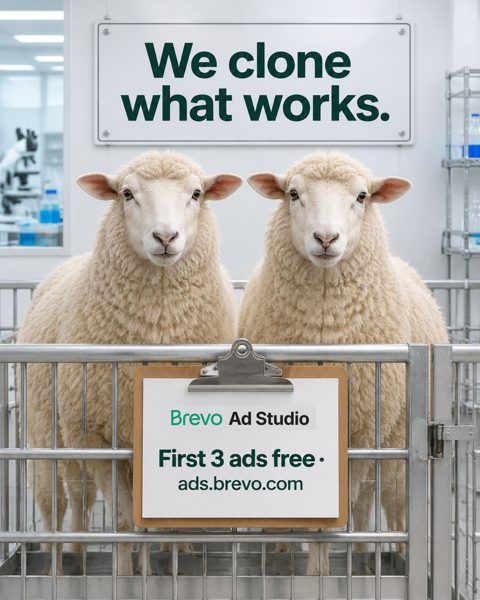
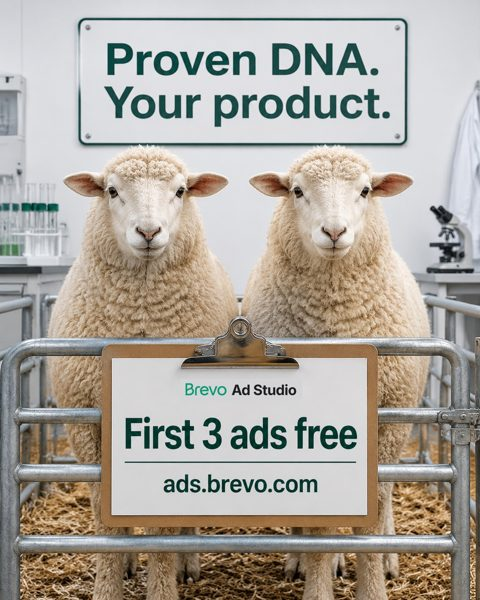
Round 2: replace H09, H10, H48 (too close to live Meta headlines)

diff --git a/round2.html b/round2.html
@@ -45,7 +45,7 @@ footer{color:var(--mute);font-size:13px;padding:34px 0 50px}
 </main>
 <div class="lb" id="lb"><button class="x" aria-label="Close">×</button><button class="nav prev" aria-label="Previous">‹</button><img alt=""><button class="nav next" aria-label="Next">›</button><div class="cap"></div></div>
 <script>
-const ADS=[{"id": "G01", "set": "G", "hook": "Agency, DIY or AI? Do the math.", "format": "Three-column comparison matrix", "brand": "Explee", "lib": "https://www.facebook.com/ads/library/?id=1784325346229388", "days": 50}, {"id": "G02", "set": "G", "hook": "Ad agencies just got a $0 rival", "format": "Aerial news shot with a live site card", "brand": "Explee", "lib": "https://www.facebook.com/ads/library/?id=1476376404327972", "days": 70}, {"id": "G03", "set": "G", "hook": "Turn me around. Wait, the AI makes the ads now?!", "format": "Upside-down torn paper collage", "brand": "Explee", "lib": "https://www.facebook.com/ads/library/?id=1004905852579612", "days": 2}, {"id": "G04", "set": "G", "hook": "Find the ads that already sell", "format": "One box vs a $5,000 stack", "brand": "Explee", "lib": "https://www.facebook.com/ads/library/?id=1079077448261437", "days": 67}, {"id": "G05", "set": "G", "hook": "If you sell online, our AI makes the ads that already sell.", "format": "Dark gradient with ring icon", "brand": "Explee", "lib": "https://www.facebook.com/ads/library/?id=1783106842817516", "days": 48}, {"id": "G06", "set": "G", "hook": "Boosting posts vs Brevo Ad Studio", "format": "Sticky notes on a wall", "brand": "Explee", "lib": "https://www.facebook.com/ads/library/?id=1888906935241734", "days": 25}, {"id": "G07", "set": "G", "hook": "No designer. No agency.", "format": "Black headline over three app screens", "brand": "Explee", "lib": "https://www.facebook.com/ads/library/?id=1037388925858773", "days": 25}, {"id": "G08", "set": "G", "hook": "How to get winning ads without any design work", "format": "Illustrated how-to card", "brand": "Explee", "lib": "https://www.facebook.com/ads/library/?id=3186214681574945", "days": 48}, {"id": "G09", "set": "G", "hook": "We're looking for store owners with no ad team", "format": "Recruitment note on a dotted pad", "brand": "Explee", "lib": "https://www.facebook.com/ads/library/?id=1462753865803063", "days": 8}, {"id": "G10", "set": "G", "hook": "See how AI makes ads that sell", "format": "Ballpoint notebook doodle", "brand": "Explee", "lib": "https://www.facebook.com/ads/library/?id=1057186540412056", "days": 24}, {"id": "G11", "set": "G", "hook": "40 boosted posts. 0 orders.", "format": "Giant condensed type poster", "brand": "Explee", "lib": "https://www.facebook.com/ads/library/?id=1668486977576528", "days": 14}, {"id": "G12", "set": "G", "hook": "Hold on. AI copies the ad that's already winning?!", "format": "Weathered street billboard", "brand": "Explee", "lib": "https://www.facebook.com/ads/library/?id=2150180252197644", "days": 17}, {"id": "G13", "set": "G", "hook": "A link is all you need.", "format": "Academic paper parody", "brand": "Explee", "lib": "https://www.facebook.com/ads/library/?id=1610341820741354", "days": 11}, {"id": "G14", "set": "G", "hook": "so why are you still making ads by hand?", "format": "Mobile social feed post", "brand": "Explee", "lib": "https://www.facebook.com/ads/library/?id=2210888943024863", "days": 14}, {"id": "G15", "set": "G", "hook": "Boosting posts and hoping / Copying ads that already sell", "format": "Highway exit meme", "brand": "Explee", "lib": "https://www.facebook.com/ads/library/?id=1357919096481776", "days": 14}, {"id": "G16", "set": "G", "hook": "I fired my agency for a link", "format": "Cardboard sign in a crowd", "brand": "Explee", "lib": "https://www.facebook.com/ads/library/?id=1052572170494766", "days": 17}, {"id": "G17", "set": "G", "hook": "I let AI copy my competitor's 300-day ad", "format": "Video watch page", "brand": "Explee", "lib": "https://www.facebook.com/ads/library/?id=2477410852742029", "days": 15}, {"id": "G18", "set": "G", "hook": "Small stores have stopped guessing which ads to run", "format": "Sponsored editorial article", "brand": "Explee", "lib": "https://www.facebook.com/ads/library/?id=1359831326068873", "days": 10}, {"id": "G19", "set": "G", "hook": "Copying ads that sell: fastest", "format": "Navigation map with two routes", "brand": "Explee", "lib": "https://www.facebook.com/ads/library/?id=1700969708435149", "days": 0}, {"id": "G20", "set": "G", "hook": "Out of ad ideas? Let Ad Studio fix it.", "format": "Agent message on a phone", "brand": "Explee", "lib": "https://www.facebook.com/ads/library/?id=1376533761070942", "days": 1}, {"id": "G21", "set": "G", "hook": "me putting my product right next to the ad that's been selling for 300 days", "format": "Three-panel restroom meme", "brand": "Explee", "lib": "https://www.facebook.com/ads/library/?id=1015940017923083", "days": 13}, {"id": "G22", "set": "G", "hook": "Skip the testing. Start with the winner.", "format": "Minimal white text card", "brand": "Explee", "lib": "https://www.facebook.com/ads/library/?id=1355026230031007", "days": 17}, {"id": "G23", "set": "G", "hook": "AI made my ads while I played tennis", "format": "POV phone on a tennis court", "brand": "Explee", "lib": "https://www.facebook.com/ads/library/?id=835005609698520", "days": 2}, {"id": "G24", "set": "G", "hook": "We need to talk about your ad spend", "format": "Empty boardroom at dusk", "brand": "Explee", "lib": "https://www.facebook.com/ads/library/?id=1745293320027217", "days": 3}, {"id": "G25", "set": "G", "hook": "Behind every one of these doors is an ad that already sells.", "format": "Long corridor of doors", "brand": "Explee", "lib": "https://www.facebook.com/ads/library/?id=1087187114170010", "days": 13}, {"id": "G26", "set": "G", "hook": "Launch your next ad in 4 minutes vs 3 weeks", "format": "Yellow cartoon runner", "brand": "Explee", "lib": "https://www.facebook.com/ads/library/?id=1489331002994353", "days": 11}, {"id": "G27", "set": "G", "hook": "Agencies take 3 weeks. Designers cost $2k. Start getting ads now.", "format": "Giant red push button", "brand": "Explee", "lib": "https://www.facebook.com/ads/library/?id=1738022153885234", "days": 9}, {"id": "G28", "set": "G", "hook": "Your AI ads agent just landed.", "format": "Helicopter over a skyline", "brand": "Explee", "lib": "https://www.facebook.com/ads/library/?id=2139338823632328", "days": 2}, {"id": "G29", "set": "G", "hook": "store owner polishes the product page one more time. still $0 sales.", "format": "Absurd caption meme", "brand": "Explee", "lib": "https://www.facebook.com/ads/library/?id=1775119817015156", "days": 5}, {"id": "G30", "set": "G", "hook": "The lazy way to get ads that sell", "format": "Icon card on green", "brand": "Explee", "lib": "https://www.facebook.com/ads/library/?id=3660268410789957", "days": 10}, {"id": "G31", "set": "G", "hook": "wait, it made 12 ads from one link?", "format": "Surprised face with floating UI", "brand": "Explee", "lib": "https://www.facebook.com/ads/library/?id=1315082027455047", "days": 6}, {"id": "G32", "set": "G", "hook": "Pouring ads into a funnel that leaks?", "format": "Clogged funnel vs golden flask", "brand": "Explee", "lib": "https://www.facebook.com/ads/library/?id=1116480267520776", "days": 6}, {"id": "G33", "set": "G", "hook": "Keep calm and paste your link", "format": "Keep Calm poster", "brand": "Explee", "lib": "https://www.facebook.com/ads/library/?id=1615341836612373", "days": 4}, {"id": "G34", "set": "G", "hook": "Trade offer: your product link for ads that already sell", "format": "Trade offer meme", "brand": "Explee", "lib": "https://www.facebook.com/ads/library/?id=1530900609051332", "days": 6}, {"id": "G35", "set": "G", "hook": "Find the ad that's selling. Make me one.", "format": "Note on the fridge", "brand": "Explee", "lib": "https://www.facebook.com/ads/library/?id=1448990897361996", "days": 6}, {"id": "G36", "set": "G", "hook": "Product is good. Ads don't sell. What am I missing?", "format": "Forum thread with a reply", "brand": "Explee", "lib": "https://www.facebook.com/ads/library/?id=1737685910702482", "days": 4}, {"id": "G37", "set": "G", "hook": "Store with no sales?", "format": "Demotivational poster", "brand": "Explee", "lib": "https://www.facebook.com/ads/library/?id=816022871506342", "days": 8}, {"id": "G38", "set": "G", "hook": "I'm going to stay here and watch Ad Studio make my ads.", "format": "Calm owner, office on fire", "brand": "Explee", "lib": "https://www.facebook.com/ads/library/?id=960648187114393", "days": 3}, {"id": "G39", "set": "G", "hook": "A test for store owners who want more orders", "format": "Colour-blindness test plate", "brand": "Explee", "lib": "https://www.facebook.com/ads/library/?id=1742886443620728", "days": 1}, {"id": "G40", "set": "G", "hook": "Find. Clone. Write. Launch.", "format": "Isometric conveyor", "brand": "Explee", "lib": "https://www.facebook.com/ads/library/?id=1038159412510049", "days": 1}, {"id": "H01", "set": "H", "hook": "LOOK UP: 3 FREE ADS", "format": "Skywriting", "parent": "G12 billboard / disbelief", "angle": "benefit"}, {"id": "H02", "set": "H", "hook": "No agency. No regrets.", "format": "A fresh tattoo", "parent": "G16 protest sign", "angle": "identity"}, {"id": "H03", "set": "H", "hook": "6 months. $0 sold.", "format": "A sad little celebration cake for a store's half-birthday with zero sa", "parent": "G11 '6 months, $0' pain", "angle": "pain"}, {"id": "H04", "set": "H", "hook": "Here lies boosted posts", "format": "A cemetery headstone for the tactic every store owner keeps paying for", "parent": "G15 / G21 enemy", "angle": "objection"}, {"id": "H05", "set": "H", "hook": "Your ads: flatlined.", "format": "A hospital patient monitor shows your ads flatlining", "parent": "G20 agent alert", "angle": "pain"}, {"id": "H06", "set": "H", "hook": "Welcome. Please buy something.", "format": "A shop's welcome doormat that says what every empty store is thinking", "parent": "G37 demotivational / pain", "angle": "pain"}, {"id": "H07", "set": "H", "hook": "AGENCY $4,000 / AD STUDIO $0", "format": "A roadside gas-station price pylon", "parent": "G01 / G04 price anchor", "angle": "offer"}, {"id": "H08", "set": "H", "hook": "In case of $0 sales", "format": "An emergency break-glass box for stores with no sales", "parent": "G11 pain to fix", "angle": "pain"}, {"id": "H09", "set": "H", "hook": "We clone what works.", "format": "Two identical sheep in a clinical lab", "parent": "G03 / clone mechanism", "angle": "benefit"}, {"id": "H10", "set": "H", "hook": "Copy what already sells.", "format": "An office copier", "parent": "G13 / copy what sells", "angle": "benefit"}, {"id": "H11", "set": "H", "hook": "The legal heist.", "format": "A heist blueprint for stealing your competitor's best ad", "parent": "G25 corridor doors / objection", "angle": "objection"}, {"id": "H12", "set": "H", "hook": "Stop flailing. Use proof.", "format": "A flailing inflatable tube man outside a car lot", "parent": "G29 absurd meme", "angle": "pain"}, {"id": "H13", "set": "H", "hook": "Guessing: sent off.", "format": "A referee sends boosted posts off the pitch", "parent": "G15 enemy", "angle": "objection"}, {"id": "H14", "set": "H", "hook": "One small link.", "format": "A moon landing for store owners", "parent": "G28 just landed", "angle": "benefit"}, {"id": "H15", "set": "H", "hook": "Winning ads. Just add link.", "format": "A breakfast cereal box where the cereal is ads", "parent": "G33 keep calm / product parody", "angle": "benefit"}, {"id": "H16", "set": "H", "hook": "Proven since the Stone Age.", "format": "Cave painting", "parent": "G13 academic proof", "angle": "proof"}, {"id": "H17", "set": "H", "hook": "Insufficient funds for an agency.", "format": "An ATM screen that knows your budget", "parent": "G04 price anchor", "angle": "objection"}, {"id": "H18", "set": "H", "hook": "Paste link. Go surf.", "format": "Aerial beach", "parent": "G23 tennis POV / while you play", "angle": "benefit"}, {"id": "H19", "set": "H", "hook": "Stop guessing your ads.", "format": "Red lipstick on a bathroom mirror", "parent": "G35 fridge note", "angle": "identity"}, {"id": "H20", "set": "H", "hook": "Live. Laugh. Copy winners.", "format": "A farmhouse home-decor sign", "parent": "G33 keep calm", "angle": "identity"}, {"id": "H21", "set": "H", "hook": "Agencies hate this link.", "format": "Spray stencil on a closed shop's rolling shutter at night", "parent": "G15 enemy", "angle": "objection"}, {"id": "H22", "set": "H", "hook": "Crime scene: your ad budget", "format": "Crime scene", "parent": "G38 this is fine", "angle": "pain"}, {"id": "H23", "set": "H", "hook": "Good time? Paste your link.", "format": "Bathroom stall graffiti that is actually good advice", "parent": "G21 urinal meme", "angle": "identity"}, {"id": "H24", "set": "H", "hook": "STOP BOOSTING POSTS STOP", "format": "An old telegram with an urgent instruction", "parent": "G02 breaking news", "angle": "objection"}, {"id": "H25", "set": "H", "hook": "Take 1. No retakes.", "format": "A film clapperboard", "parent": "G17 video page", "angle": "benefit"}, {"id": "H26", "set": "H", "hook": "Grandma's winning ad recipe", "format": "Grandma's recipe card", "parent": "G35 handwritten note", "angle": "proof"}, {"id": "H27", "set": "H", "hook": "Ad. No assembly required.", "format": "A flat-pack instruction booklet for an ad that needs no assembly", "parent": "G08 how-to", "angle": "objection"}, {"id": "H28", "set": "H", "hook": "I ate the agency budget.", "format": "Dog shaming", "parent": "G29 absurd meme", "angle": "pain"}, {"id": "H29", "set": "H", "hook": "Copying allowed here.", "format": "A graded exam where copying earns an A+", "parent": "G39 test for store owners", "angle": "objection"}, {"id": "H30", "set": "H", "hook": "Your ad launches in 4:00", "format": "A launch-pad countdown clock for your next ad", "parent": "G28 launch", "angle": "benefit"}, {"id": "H31", "set": "H", "hook": "Ads inside ads inside ads.", "format": "Russian nesting dolls", "parent": "G40 assembly line", "angle": "benefit"}, {"id": "H32", "set": "H", "hook": "Their ad. Your piece.", "format": "A jigsaw of a proven ad", "parent": "G04 two-box stack", "angle": "benefit"}, {"id": "H33", "set": "H", "hook": "They were the guinea pig.", "format": "Let someone else be the guinea pig", "parent": "G13 academic / proof", "angle": "proof"}, {"id": "H34", "set": "H", "hook": "Still running: day 412", "format": "A marathon runner whose race bib reads like a long-running ad", "parent": "G19 map / running", "angle": "proof"}, {"id": "H35", "set": "H", "hook": "Caution: ads that sell.", "format": "A yellow wet-floor sign that warns about something good", "parent": "G22 minimal", "angle": "benefit"}, {"id": "H36", "set": "H", "hook": "In proven ads we trust.", "format": "A novelty banknote whose denomination is your free ads", "parent": "G24 we need to talk", "angle": "offer"}, {"id": "H37", "set": "H", "hook": "Ads directed by one link.", "format": "Movie end credits for your new ad", "parent": "G18 advertorial", "angle": "benefit"}, {"id": "H38", "set": "H", "hook": "NO AGNCY", "format": "A delivery van with a vanity license plate", "parent": "G16 identity", "angle": "identity"}, {"id": "H39", "set": "H", "hook": "PROVEN WINS", "format": "Letter tiles on a word-game board spell the move", "parent": "G39 test for store owners", "angle": "benefit"}, {"id": "H40", "set": "H", "hook": "300 days live. Yours next.", "format": "Guerrilla projection on a skyscraper at night", "parent": "G02 broadcast / projection", "angle": "benefit"}, {"id": "H41", "set": "H", "hook": "Same ad. New passport.", "format": "A passport issued to an ad", "parent": "G03 / clone", "angle": "benefit"}, {"id": "H42", "set": "H", "hook": "Their best ad: $0", "format": "An auction house sells their best ad for nothing", "parent": "G04 price anchor", "angle": "offer"}, {"id": "H43", "set": "H", "hook": "One link starts it all.", "format": "One domino starts the whole chain", "parent": "G40 conveyor", "angle": "benefit"}, {"id": "H44", "set": "H", "hook": "Something borrowed: their best ad.", "format": "Wedding chalkboard", "parent": "G37 humor", "angle": "identity"}, {"id": "H45", "set": "H", "hook": "Hear ye: agencies are over.", "format": "A town crier's proclamation nailed to a door", "parent": "G02 breaking news", "angle": "news"}, {"id": "H46", "set": "H", "hook": "Rare specimen: still selling.", "format": "A natural-history specimen box of rare ads", "parent": "G13 academic", "angle": "proof"}, {"id": "H47", "set": "H", "hook": "Greatest hits: 300-day ads", "format": "A mixtape of the ads that kept selling", "parent": "G10 doodle", "angle": "proof"}, {"id": "H48", "set": "H", "hook": "Your new ad team", "format": "A HELLO MY NAME IS badge stuck on a laptop lid", "parent": "G35 note", "angle": "identity"}, {"id": "H49", "set": "H", "hook": "Paint-by-link ad kit", "format": "A paint-by-numbers kit", "parent": "G08 illustrated", "angle": "benefit"}, {"id": "H50", "set": "H", "hook": "Wa \u00b7 Winning Ad", "format": "A periodic table tile for the element every store needs", "parent": "G13 academic", "angle": "identity"}, {"id": "H51", "set": "H", "hook": "It's an ad!", "format": "A newborn hospital bassinet", "parent": "G20 agent", "angle": "benefit"}, {"id": "H52", "set": "H", "hook": "Coming soon: your best ad", "format": "A construction hoarding announcing what is being built", "parent": "G26 speed", "angle": "benefit"}, {"id": "H53", "set": "H", "hook": "Ctrl+C what sells.", "format": "A keyboard where only two shortcuts matter", "parent": "G03 clone", "angle": "benefit"}, {"id": "H54", "set": "H", "hook": "Your ads are boring.", "format": "An old TV test card interrupts your feed", "parent": "G02 broadcast", "angle": "pain"}, {"id": "H55", "set": "H", "hook": "Missing: your sales.", "format": "A milk carton missing-person notice", "parent": "G11 pain", "angle": "pain"}, {"id": "H56", "set": "H", "hook": "Authorized winners only.", "format": "A metal restricted-area sign on a fence", "parent": "G09 recruitment", "angle": "identity"}, {"id": "H57", "set": "H", "hook": "First-class ads: 3 free", "format": "A giant postage stamp for first-class ads", "parent": "G04 price anchor", "angle": "offer"}, {"id": "H58", "set": "H", "hook": "Agency: terminated.", "format": "A contract stamped terminated", "parent": "G24 / enemy", "angle": "objection"}, {"id": "H59", "set": "H", "hook": "Made from 100% proven ads", "format": "A garment care label for an ad", "parent": "G40 / proof", "angle": "proof"}, {"id": "H60", "set": "H", "hook": "Jump in. 3 free ads.", "format": "A skydiver's canopy carries the offer across the sky", "parent": "G28 just landed", "angle": "offer"}];
+const ADS=[{"id": "G01", "set": "G", "hook": "Agency, DIY or AI? Do the math.", "format": "Three-column comparison matrix", "brand": "Explee", "lib": "https://www.facebook.com/ads/library/?id=1784325346229388", "days": 50}, {"id": "G02", "set": "G", "hook": "Ad agencies just got a $0 rival", "format": "Aerial news shot with a live site card", "brand": "Explee", "lib": "https://www.facebook.com/ads/library/?id=1476376404327972", "days": 70}, {"id": "G03", "set": "G", "hook": "Turn me around. Wait, the AI makes the ads now?!", "format": "Upside-down torn paper collage", "brand": "Explee", "lib": "https://www.facebook.com/ads/library/?id=1004905852579612", "days": 2}, {"id": "G04", "set": "G", "hook": "Find the ads that already sell", "format": "One box vs a $5,000 stack", "brand": "Explee", "lib": "https://www.facebook.com/ads/library/?id=1079077448261437", "days": 67}, {"id": "G05", "set": "G", "hook": "If you sell online, our AI makes the ads that already sell.", "format": "Dark gradient with ring icon", "brand": "Explee", "lib": "https://www.facebook.com/ads/library/?id=1783106842817516", "days": 48}, {"id": "G06", "set": "G", "hook": "Boosting posts vs Brevo Ad Studio", "format": "Sticky notes on a wall", "brand": "Explee", "lib": "https://www.facebook.com/ads/library/?id=1888906935241734", "days": 25}, {"id": "G07", "set": "G", "hook": "No designer. No agency.", "format": "Black headline over three app screens", "brand": "Explee", "lib": "https://www.facebook.com/ads/library/?id=1037388925858773", "days": 25}, {"id": "G08", "set": "G", "hook": "How to get winning ads without any design work", "format": "Illustrated how-to card", "brand": "Explee", "lib": "https://www.facebook.com/ads/library/?id=3186214681574945", "days": 48}, {"id": "G09", "set": "G", "hook": "We're looking for store owners with no ad team", "format": "Recruitment note on a dotted pad", "brand": "Explee", "lib": "https://www.facebook.com/ads/library/?id=1462753865803063", "days": 8}, {"id": "G10", "set": "G", "hook": "See how AI makes ads that sell", "format": "Ballpoint notebook doodle", "brand": "Explee", "lib": "https://www.facebook.com/ads/library/?id=1057186540412056", "days": 24}, {"id": "G11", "set": "G", "hook": "40 boosted posts. 0 orders.", "format": "Giant condensed type poster", "brand": "Explee", "lib": "https://www.facebook.com/ads/library/?id=1668486977576528", "days": 14}, {"id": "G12", "set": "G", "hook": "Hold on. AI copies the ad that's already winning?!", "format": "Weathered street billboard", "brand": "Explee", "lib": "https://www.facebook.com/ads/library/?id=2150180252197644", "days": 17}, {"id": "G13", "set": "G", "hook": "A link is all you need.", "format": "Academic paper parody", "brand": "Explee", "lib": "https://www.facebook.com/ads/library/?id=1610341820741354", "days": 11}, {"id": "G14", "set": "G", "hook": "so why are you still making ads by hand?", "format": "Mobile social feed post", "brand": "Explee", "lib": "https://www.facebook.com/ads/library/?id=2210888943024863", "days": 14}, {"id": "G15", "set": "G", "hook": "Boosting posts and hoping / Copying ads that already sell", "format": "Highway exit meme", "brand": "Explee", "lib": "https://www.facebook.com/ads/library/?id=1357919096481776", "days": 14}, {"id": "G16", "set": "G", "hook": "I fired my agency for a link", "format": "Cardboard sign in a crowd", "brand": "Explee", "lib": "https://www.facebook.com/ads/library/?id=1052572170494766", "days": 17}, {"id": "G17", "set": "G", "hook": "I let AI copy my competitor's 300-day ad", "format": "Video watch page", "brand": "Explee", "lib": "https://www.facebook.com/ads/library/?id=2477410852742029", "days": 15}, {"id": "G18", "set": "G", "hook": "Small stores have stopped guessing which ads to run", "format": "Sponsored editorial article", "brand": "Explee", "lib": "https://www.facebook.com/ads/library/?id=1359831326068873", "days": 10}, {"id": "G19", "set": "G", "hook": "Copying ads that sell: fastest", "format": "Navigation map with two routes", "brand": "Explee", "lib": "https://www.facebook.com/ads/library/?id=1700969708435149", "days": 0}, {"id": "G20", "set": "G", "hook": "Out of ad ideas? Let Ad Studio fix it.", "format": "Agent message on a phone", "brand": "Explee", "lib": "https://www.facebook.com/ads/library/?id=1376533761070942", "days": 1}, {"id": "G21", "set": "G", "hook": "me putting my product right next to the ad that's been selling for 300 days", "format": "Three-panel restroom meme", "brand": "Explee", "lib": "https://www.facebook.com/ads/library/?id=1015940017923083", "days": 13}, {"id": "G22", "set": "G", "hook": "Skip the testing. Start with the winner.", "format": "Minimal white text card", "brand": "Explee", "lib": "https://www.facebook.com/ads/library/?id=1355026230031007", "days": 17}, {"id": "G23", "set": "G", "hook": "AI made my ads while I played tennis", "format": "POV phone on a tennis court", "brand": "Explee", "lib": "https://www.facebook.com/ads/library/?id=835005609698520", "days": 2}, {"id": "G24", "set": "G", "hook": "We need to talk about your ad spend", "format": "Empty boardroom at dusk", "brand": "Explee", "lib": "https://www.facebook.com/ads/library/?id=1745293320027217", "days": 3}, {"id": "G25", "set": "G", "hook": "Behind every one of these doors is an ad that already sells.", "format": "Long corridor of doors", "brand": "Explee", "lib": "https://www.facebook.com/ads/library/?id=1087187114170010", "days": 13}, {"id": "G26", "set": "G", "hook": "Launch your next ad in 4 minutes vs 3 weeks", "format": "Yellow cartoon runner", "brand": "Explee", "lib": "https://www.facebook.com/ads/library/?id=1489331002994353", "days": 11}, {"id": "G27", "set": "G", "hook": "Agencies take 3 weeks. Designers cost $2k. Start getting ads now.", "format": "Giant red push button", "brand": "Explee", "lib": "https://www.facebook.com/ads/library/?id=1738022153885234", "days": 9}, {"id": "G28", "set": "G", "hook": "Your AI ads agent just landed.", "format": "Helicopter over a skyline", "brand": "Explee", "lib": "https://www.facebook.com/ads/library/?id=2139338823632328", "days": 2}, {"id": "G29", "set": "G", "hook": "store owner polishes the product page one more time. still $0 sales.", "format": "Absurd caption meme", "brand": "Explee", "lib": "https://www.facebook.com/ads/library/?id=1775119817015156", "days": 5}, {"id": "G30", "set": "G", "hook": "The lazy way to get ads that sell", "format": "Icon card on green", "brand": "Explee", "lib": "https://www.facebook.com/ads/library/?id=3660268410789957", "days": 10}, {"id": "G31", "set": "G", "hook": "wait, it made 12 ads from one link?", "format": "Surprised face with floating UI", "brand": "Explee", "lib": "https://www.facebook.com/ads/library/?id=1315082027455047", "days": 6}, {"id": "G32", "set": "G", "hook": "Pouring ads into a funnel that leaks?", "format": "Clogged funnel vs golden flask", "brand": "Explee", "lib": "https://www.facebook.com/ads/library/?id=1116480267520776", "days": 6}, {"id": "G33", "set": "G", "hook": "Keep calm and paste your link", "format": "Keep Calm poster", "brand": "Explee", "lib": "https://www.facebook.com/ads/library/?id=1615341836612373", "days": 4}, {"id": "G34", "set": "G", "hook": "Trade offer: your product link for ads that already sell", "format": "Trade offer meme", "brand": "Explee", "lib": "https://www.facebook.com/ads/library/?id=1530900609051332", "days": 6}, {"id": "G35", "set": "G", "hook": "Find the ad that's selling. Make me one.", "format": "Note on the fridge", "brand": "Explee", "lib": "https://www.facebook.com/ads/library/?id=1448990897361996", "days": 6}, {"id": "G36", "set": "G", "hook": "Product is good. Ads don't sell. What am I missing?", "format": "Forum thread with a reply", "brand": "Explee", "lib": "https://www.facebook.com/ads/library/?id=1737685910702482", "days": 4}, {"id": "G37", "set": "G", "hook": "Store with no sales?", "format": "Demotivational poster", "brand": "Explee", "lib": "https://www.facebook.com/ads/library/?id=816022871506342", "days": 8}, {"id": "G38", "set": "G", "hook": "I'm going to stay here and watch Ad Studio make my ads.", "format": "Calm owner, office on fire", "brand": "Explee", "lib": "https://www.facebook.com/ads/library/?id=960648187114393", "days": 3}, {"id": "G39", "set": "G", "hook": "A test for store owners who want more orders", "format": "Colour-blindness test plate", "brand": "Explee", "lib": "https://www.facebook.com/ads/library/?id=1742886443620728", "days": 1}, {"id": "G40", "set": "G", "hook": "Find. Clone. Write. Launch.", "format": "Isometric conveyor", "brand": "Explee", "lib": "https://www.facebook.com/ads/library/?id=1038159412510049", "days": 1}, {"id": "H01", "set": "H", "hook": "LOOK UP: 3 FREE ADS", "format": "Skywriting", "parent": "G12 billboard / disbelief", "angle": "benefit"}, {"id": "H02", "set": "H", "hook": "No agency. No regrets.", "format": "A fresh tattoo", "parent": "G16 protest sign", "angle": "identity"}, {"id": "H03", "set": "H", "hook": "6 months. $0 sold.", "format": "A sad little celebration cake for a store's half-birthday with zero sa", "parent": "G11 '6 months, $0' pain", "angle": "pain"}, {"id": "H04", "set": "H", "hook": "Here lies boosted posts", "format": "A cemetery headstone for the tactic every store owner keeps paying for", "parent": "G15 / G21 enemy", "angle": "objection"}, {"id": "H05", "set": "H", "hook": "Your ads: flatlined.", "format": "A hospital patient monitor shows your ads flatlining", "parent": "G20 agent alert", "angle": "pain"}, {"id": "H06", "set": "H", "hook": "Welcome. Please buy something.", "format": "A shop's welcome doormat that says what every empty store is thinking", "parent": "G37 demotivational / pain", "angle": "pain"}, {"id": "H07", "set": "H", "hook": "AGENCY $4,000 / AD STUDIO $0", "format": "A roadside gas-station price pylon", "parent": "G01 / G04 price anchor", "angle": "offer"}, {"id": "H08", "set": "H", "hook": "In case of $0 sales", "format": "An emergency break-glass box for stores with no sales", "parent": "G11 pain to fix", "angle": "pain"}, {"id": "H09", "set": "H", "hook": "Proven DNA. Your product.", "format": "Two identical sheep in a clinical lab", "parent": "G03 / clone mechanism", "angle": "benefit"}, {"id": "H10", "set": "H", "hook": "Duplicate the bestseller.", "format": "An office copier", "parent": "G13 / copy what sells", "angle": "benefit"}, {"id": "H11", "set": "H", "hook": "The legal heist.", "format": "A heist blueprint for stealing your competitor's best ad", "parent": "G25 corridor doors / objection", "angle": "objection"}, {"id": "H12", "set": "H", "hook": "Stop flailing. Use proof.", "format": "A flailing inflatable tube man outside a car lot", "parent": "G29 absurd meme", "angle": "pain"}, {"id": "H13", "set": "H", "hook": "Guessing: sent off.", "format": "A referee sends boosted posts off the pitch", "parent": "G15 enemy", "angle": "objection"}, {"id": "H14", "set": "H", "hook": "One small link.", "format": "A moon landing for store owners", "parent": "G28 just landed", "angle": "benefit"}, {"id": "H15", "set": "H", "hook": "Winning ads. Just add link.", "format": "A breakfast cereal box where the cereal is ads", "parent": "G33 keep calm / product parody", "angle": "benefit"}, {"id": "H16", "set": "H", "hook": "Proven since the Stone Age.", "format": "Cave painting", "parent": "G13 academic proof", "angle": "proof"}, {"id": "H17", "set": "H", "hook": "Insufficient funds for an agency.", "format": "An ATM screen that knows your budget", "parent": "G04 price anchor", "angle": "objection"}, {"id": "H18", "set": "H", "hook": "Paste link. Go surf.", "format": "Aerial beach", "parent": "G23 tennis POV / while you play", "angle": "benefit"}, {"id": "H19", "set": "H", "hook": "Stop guessing your ads.", "format": "Red lipstick on a bathroom mirror", "parent": "G35 fridge note", "angle": "identity"}, {"id": "H20", "set": "H", "hook": "Live. Laugh. Copy winners.", "format": "A farmhouse home-decor sign", "parent": "G33 keep calm", "angle": "identity"}, {"id": "H21", "set": "H", "hook": "Agencies hate this link.", "format": "Spray stencil on a closed shop's rolling shutter at night", "parent": "G15 enemy", "angle": "objection"}, {"id": "H22", "set": "H", "hook": "Crime scene: your ad budget", "format": "Crime scene", "parent": "G38 this is fine", "angle": "pain"}, {"id": "H23", "set": "H", "hook": "Good time? Paste your link.", "format": "Bathroom stall graffiti that is actually good advice", "parent": "G21 urinal meme", "angle": "identity"}, {"id": "H24", "set": "H", "hook": "STOP BOOSTING POSTS STOP", "format": "An old telegram with an urgent instruction", "parent": "G02 breaking news", "angle": "objection"}, {"id": "H25", "set": "H", "hook": "Take 1. No retakes.", "format": "A film clapperboard", "parent": "G17 video page", "angle": "benefit"}, {"id": "H26", "set": "H", "hook": "Grandma's winning ad recipe", "format": "Grandma's recipe card", "parent": "G35 handwritten note", "angle": "proof"}, {"id": "H27", "set": "H", "hook": "Ad. No assembly required.", "format": "A flat-pack instruction booklet for an ad that needs no assembly", "parent": "G08 how-to", "angle": "objection"}, {"id": "H28", "set": "H", "hook": "I ate the agency budget.", "format": "Dog shaming", "parent": "G29 absurd meme", "angle": "pain"}, {"id": "H29", "set": "H", "hook": "Copying allowed here.", "format": "A graded exam where copying earns an A+", "parent": "G39 test for store owners", "angle": "objection"}, {"id": "H30", "set": "H", "hook": "Your ad launches in 4:00", "format": "A launch-pad countdown clock for your next ad", "parent": "G28 launch", "angle": "benefit"}, {"id": "H31", "set": "H", "hook": "Ads inside ads inside ads.", "format": "Russian nesting dolls", "parent": "G40 assembly line", "angle": "benefit"}, {"id": "H32", "set": "H", "hook": "Their ad. Your piece.", "format": "A jigsaw of a proven ad", "parent": "G04 two-box stack", "angle": "benefit"}, {"id": "H33", "set": "H", "hook": "They were the guinea pig.", "format": "Let someone else be the guinea pig", "parent": "G13 academic / proof", "angle": "proof"}, {"id": "H34", "set": "H", "hook": "Still running: day 412", "format": "A marathon runner whose race bib reads like a long-running ad", "parent": "G19 map / running", "angle": "proof"}, {"id": "H35", "set": "H", "hook": "Caution: ads that sell.", "format": "A yellow wet-floor sign that warns about something good", "parent": "G22 minimal", "angle": "benefit"}, {"id": "H36", "set": "H", "hook": "In proven ads we trust.", "format": "A novelty banknote whose denomination is your free ads", "parent": "G24 we need to talk", "angle": "offer"}, {"id": "H37", "set": "H", "hook": "Ads directed by one link.", "format": "Movie end credits for your new ad", "parent": "G18 advertorial", "angle": "benefit"}, {"id": "H38", "set": "H", "hook": "NO AGNCY", "format": "A delivery van with a vanity license plate", "parent": "G16 identity", "angle": "identity"}, {"id": "H39", "set": "H", "hook": "PROVEN WINS", "format": "Letter tiles on a word-game board spell the move", "parent": "G39 test for store owners", "angle": "benefit"}, {"id": "H40", "set": "H", "hook": "300 days live. Yours next.", "format": "Guerrilla projection on a skyscraper at night", "parent": "G02 broadcast / projection", "angle": "benefit"}, {"id": "H41", "set": "H", "hook": "Same ad. New passport.", "format": "A passport issued to an ad", "parent": "G03 / clone", "angle": "benefit"}, {"id": "H42", "set": "H", "hook": "Their best ad: $0", "format": "An auction house sells their best ad for nothing", "parent": "G04 price anchor", "angle": "offer"}, {"id": "H43", "set": "H", "hook": "One link starts it all.", "format": "One domino starts the whole chain", "parent": "G40 conveyor", "angle": "benefit"}, {"id": "H44", "set": "H", "hook": "Something borrowed: their best ad.", "format": "Wedding chalkboard", "parent": "G37 humor", "angle": "identity"}, {"id": "H45", "set": "H", "hook": "Hear ye: agencies are over.", "format": "A town crier's proclamation nailed to a door", "parent": "G02 breaking news", "angle": "news"}, {"id": "H46", "set": "H", "hook": "Rare specimen: still selling.", "format": "A natural-history specimen box of rare ads", "parent": "G13 academic", "angle": "proof"}, {"id": "H47", "set": "H", "hook": "Greatest hits: 300-day ads", "format": "A mixtape of the ads that kept selling", "parent": "G10 doodle", "angle": "proof"}, {"id": "H48", "set": "H", "hook": "The AI intern", "format": "A HELLO MY NAME IS badge stuck on a laptop lid", "parent": "G35 note", "angle": "identity"}, {"id": "H49", "set": "H", "hook": "Paint-by-link ad kit", "format": "A paint-by-numbers kit", "parent": "G08 illustrated", "angle": "benefit"}, {"id": "H50", "set": "H", "hook": "Wa \u00b7 Winning Ad", "format": "A periodic table tile for the element every store needs", "parent": "G13 academic", "angle": "identity"}, {"id": "H51", "set": "H", "hook": "It's an ad!", "format": "A newborn hospital bassinet", "parent": "G20 agent", "angle": "benefit"}, {"id": "H52", "set": "H", "hook": "Coming soon: your best ad", "format": "A construction hoarding announcing what is being built", "parent": "G26 speed", "angle": "benefit"}, {"id": "H53", "set": "H", "hook": "Ctrl+C what sells.", "format": "A keyboard where only two shortcuts matter", "parent": "G03 clone", "angle": "benefit"}, {"id": "H54", "set": "H", "hook": "Your ads are boring.", "format": "An old TV test card interrupts your feed", "parent": "G02 broadcast", "angle": "pain"}, {"id": "H55", "set": "H", "hook": "Missing: your sales.", "format": "A milk carton missing-person notice", "parent": "G11 pain", "angle": "pain"}, {"id": "H56", "set": "H", "hook": "Authorized winners only.", "format": "A metal restricted-area sign on a fence", "parent": "G09 recruitment", "angle": "identity"}, {"id": "H57", "set": "H", "hook": "First-class ads: 3 free", "format": "A giant postage stamp for first-class ads", "parent": "G04 price anchor", "angle": "offer"}, {"id": "H58", "set": "H", "hook": "Agency: terminated.", "format": "A contract stamped terminated", "parent": "G24 / enemy", "angle": "objection"}, {"id": "H59", "set": "H", "hook": "Made from 100% proven ads", "format": "A garment care label for an ad", "parent": "G40 / proof", "angle": "proof"}, {"id": "H60", "set": "H", "hook": "Jump in. 3 free ads.", "format": "A skydiver's canopy carries the offer across the sky", "parent": "G28 just landed", "angle": "offer"}];
 const SETS={"G": ["Explee clones", "40 more Explee statics, each a format we have not run yet"], "H": ["Radical, inspired by the 40", "60 new worlds: one huge hook on one object, built from the Explee mechanics in set G"]};
 const out=document.getElementById('out');let cur=[],idx=0;
 function card(a){const src=a.lib?`<div class="src">Source: ${a.brand} · ${a.days} days live · <a href="${a.lib}" target="_blank" rel="noopener">Ad Library</a></div>`:`<div class="src">Inspired by ${a.parent||'set G'} · angle: ${a.angle||''}</div>`;
